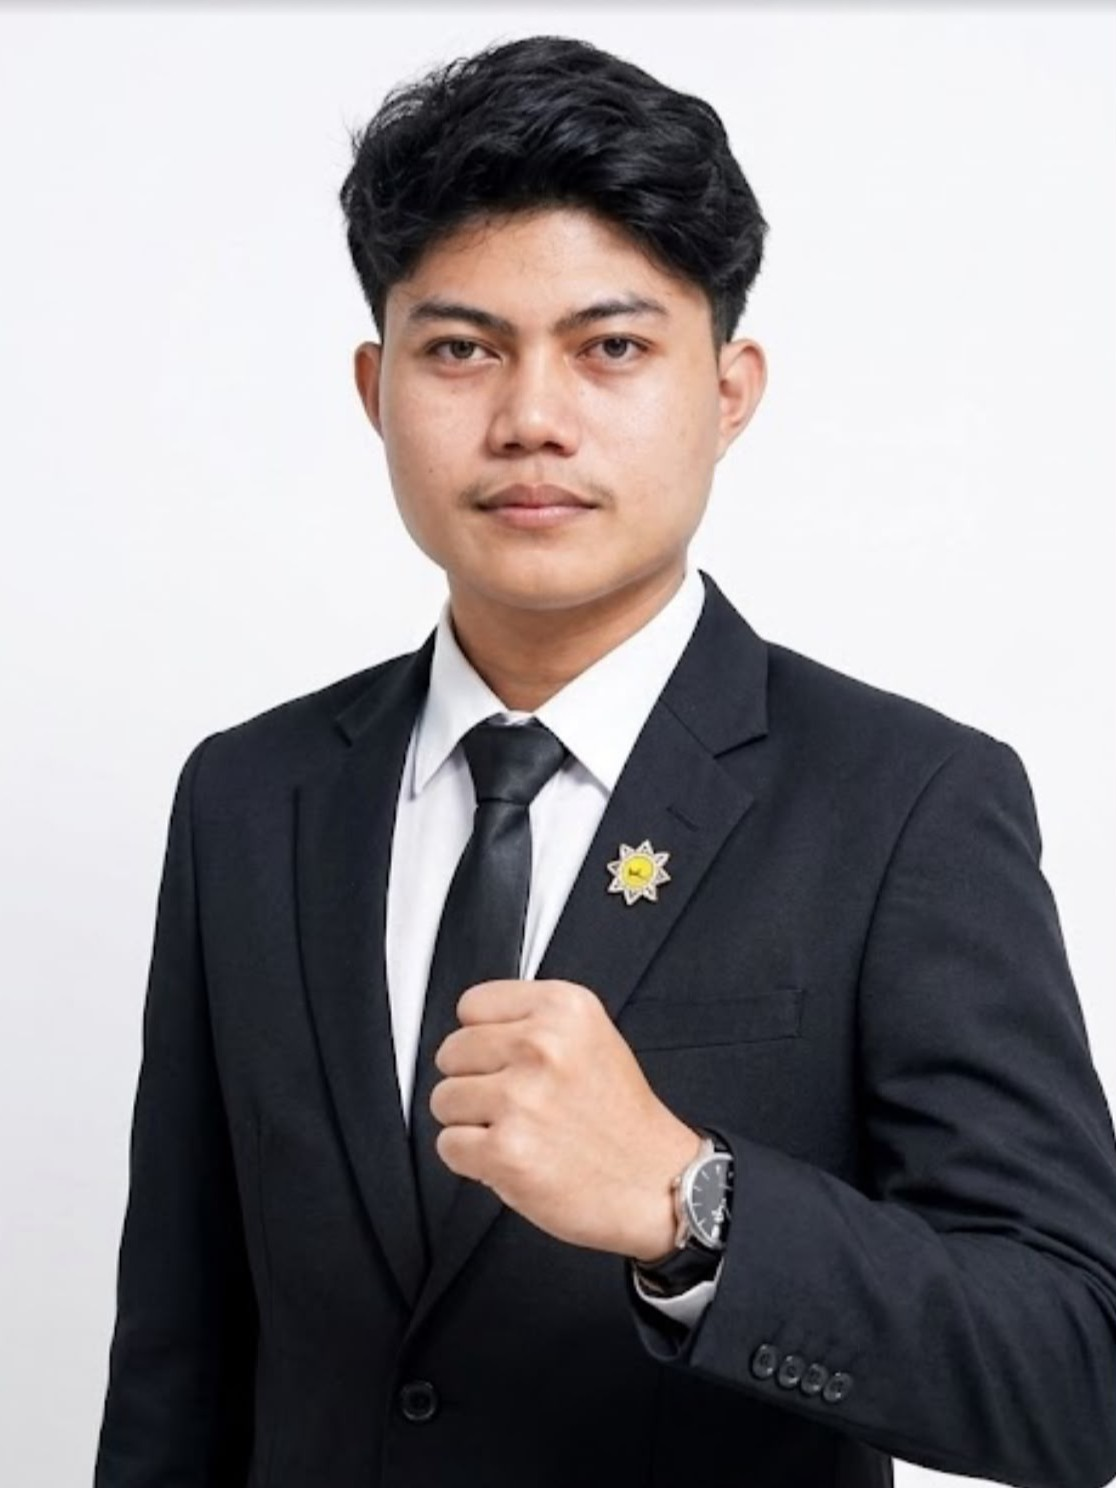
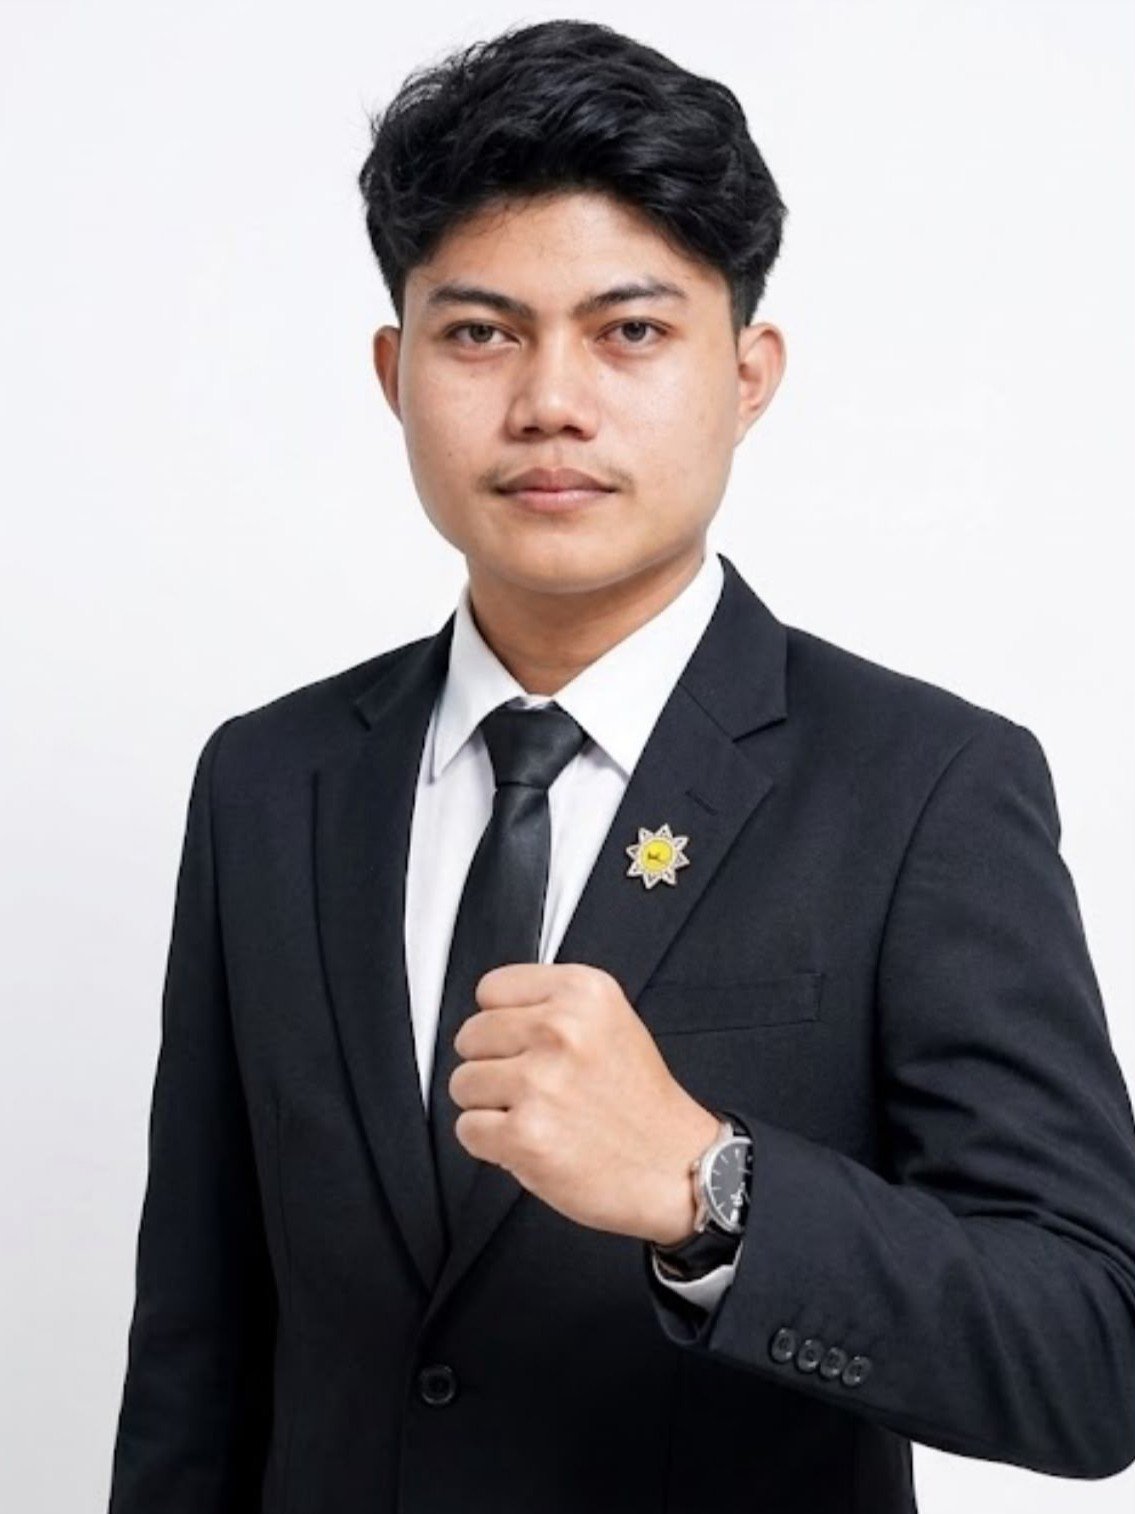
fix: update @barito-bahalap/styles dependency to version ^1.4.1

diff --git a/src/assets/index.ts b/src/assets/index.ts
@@ -3,9 +3,11 @@ import ampiKalteng from "@/assets/ampi-kalteng.png";
 import ePalugada from "@/assets/e-palugada.png";
 import telkomDashboard from "@/assets/telkom-dashboard.png";
 
-import basil from "@/assets/people/basil.jpg";
+import basil from "@/assets/people/basil.jpeg";
 import aric from "@/assets/people/aric.jpeg";
 import fredy from "@/assets/people/fredy.jpeg";
+import rabel from "@/assets/people/rabel.jpg";
+import karel from "@/assets/people/karel.jpg";
 
 export const AssetImages = { heroImg, ampiKalteng, ePalugada, telkomDashboard };
-export const People = { basil, aric, fredy };
+export const People = { basil, aric, fredy, rabel, karel };

diff --git a/src/data/id/home.ts b/src/data/id/home.ts
@@ -219,7 +219,7 @@ export const homeContent: HomeContent = {
         title: "Legal & Compliance",
         bio: "Mengawas",
         published: true,
-        photoSrc: People.basil,
+        photoSrc: People.rabel,
       },
       {
         id: "karel-jocom",
@@ -228,7 +228,7 @@ export const homeContent: HomeContent = {
         title: "Public Relations",
         bio: "sss",
         published: true,
-        photoSrc: People.basil,
+        photoSrc: People.karel,
       },
     ],
     authorityTitle: "Kewenangan keputusan",
